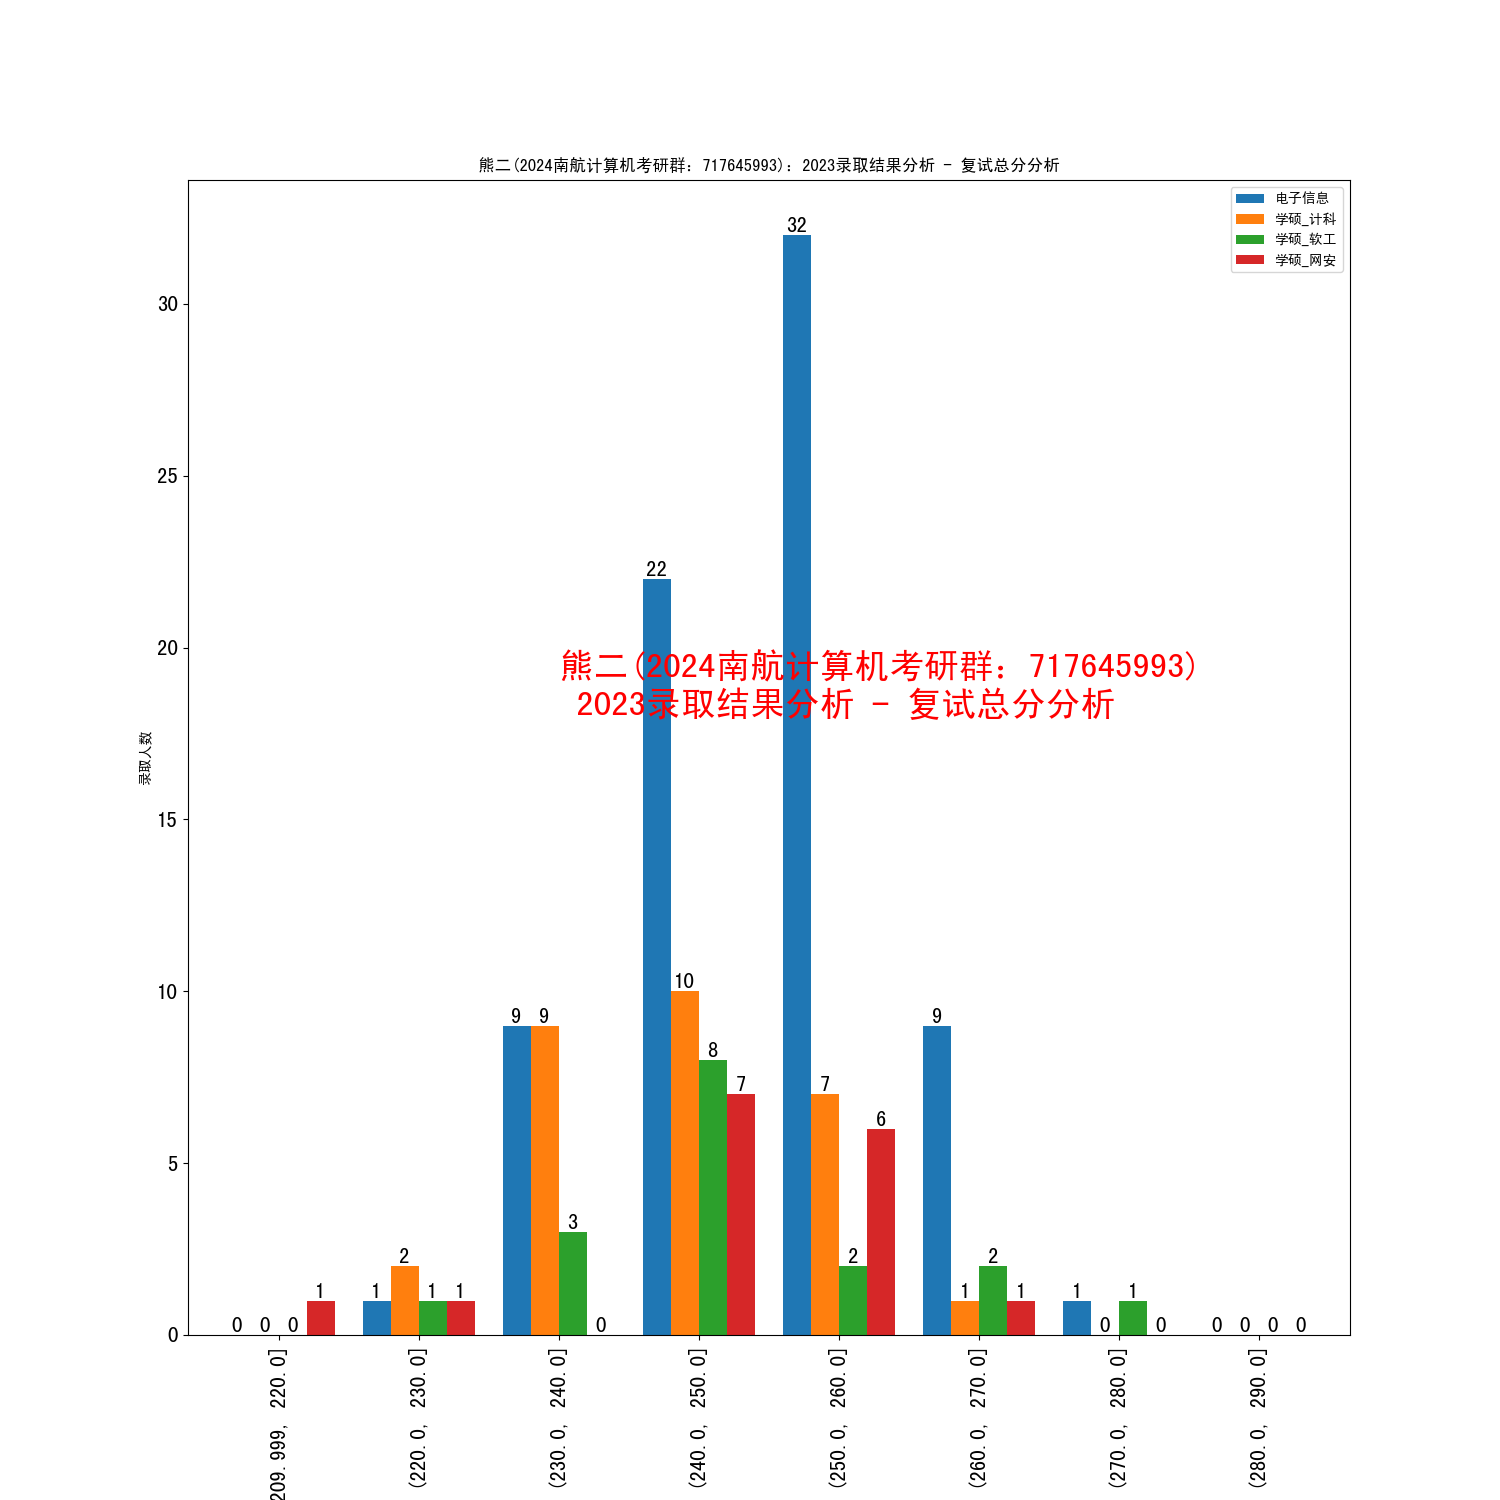
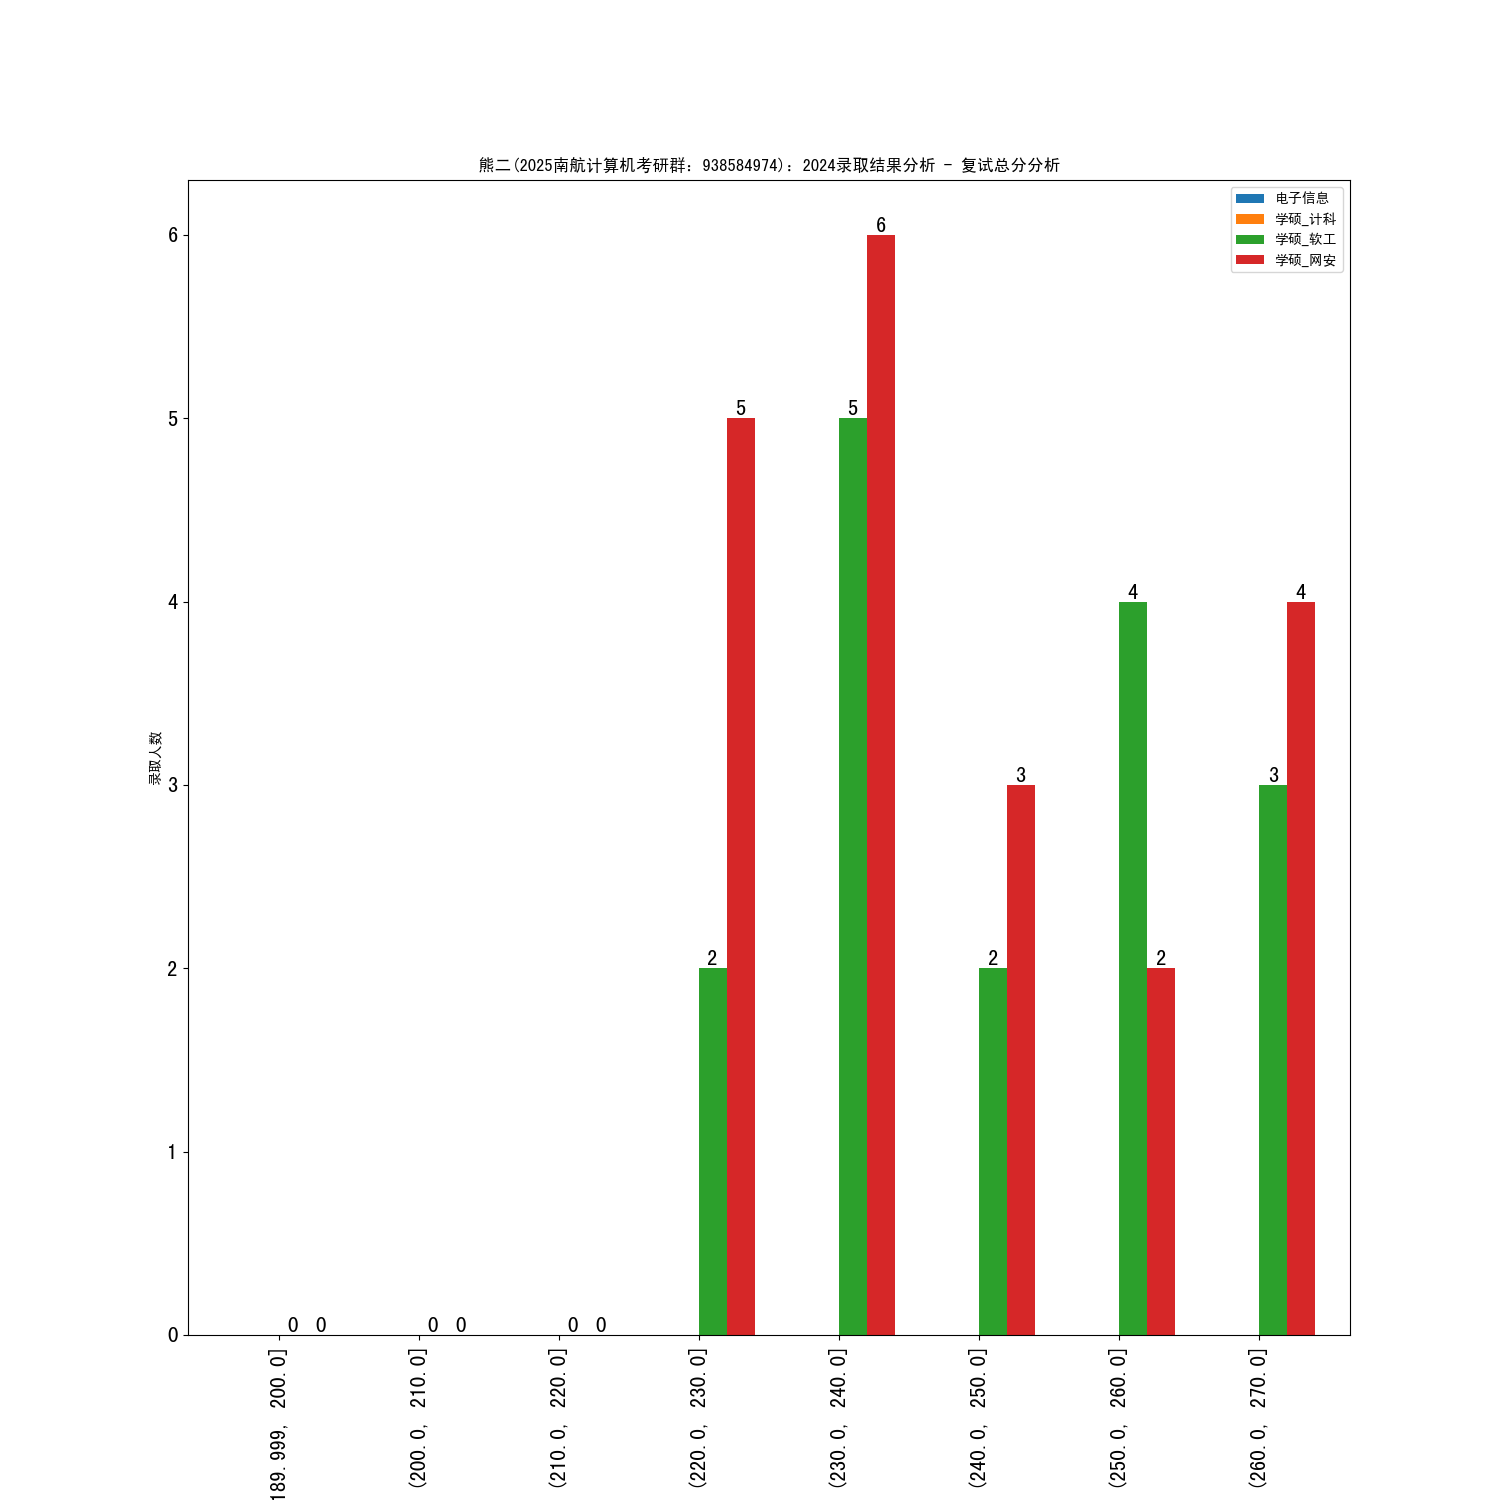
2024

diff --git a/analysis_2024_总分分析.py b/analysis_2024_总分分析.py
@@ -1,0 +1,146 @@
+# -*- coding: utf-8 -*-
+import pandas as pd
+import matplotlib.pyplot as plt
+
+plt.rcParams['font.sans-serif'] = ['SimHei'] #设置字体，设置了字体后，负号会变成乱码
+plt.rcParams['axes.unicode_minus'] = False
+
+x_index_chushi = [0, 1, 2, 3, 4, 5, 6, 7, 8, 9]
+x_index_fushi = [0, 1, 2, 3, 4, 5, 6, 7, 8]
+bins_chushi = [290, 300, 310, 320, 330, 340, 350, 360, 370, 380, 390, 400, 410]
+bins_fushi = [190,200,210, 220, 230, 240, 250, 260, 270]
+title_chushi = "熊二(2025南航计算机考研群：938584974)：2024录取结果分析 - 初试总分分析"
+title_fushi = "熊二(2025南航计算机考研群：938584974)：2024录取结果分析 - 复试总分分析"
+
+
+def load_total_score_dataframe():
+    """加载 2023录取数据-总分.txt"""
+    file = "source_data/2024录取结果.txt"
+    with open(file, 'r', encoding="utf8") as fr:
+        lines = fr.readlines()
+    data = []
+    for line in lines:
+        infos = line.strip().split(" ")
+        data.append({
+            "专业": infos[0],
+            "初试": int(infos[1]),
+            "复试": float(infos[2]),
+            "总分": float(infos[3]),
+        })
+
+    pd_data = pd.DataFrame(data)
+    return pd_data
+
+def analysis_total_score():
+    """已经剔除了退伍大学生计划的数据"""
+    pd_data = load_total_score_dataframe()
+    pd_data_group_describe = pd_data.groupby(["专业"]).describe()
+    pd_data_group_describe.to_csv("2024-初复试总分分析.csv", encoding="utf8")
+    print(pd_data_group_describe)
+
+
+def analysis_chushi():
+    pd_data = load_total_score_dataframe()
+    series_专硕_计算机技术 = pd_data[pd_data.专业 == "专硕-计算机技术"]["初试"]
+    series_专硕_软工 = pd_data[pd_data.专业 == "专硕-软工"]["初试"]
+    series_专硕_网安 = pd_data[pd_data.专业 == "专硕-网安"]["初试"]
+    series_学硕_计科 = pd_data[pd_data.专业 == "学硕-计算机科学"]["初试"]
+    series_学硕_软工 = pd_data[pd_data.专业 == "学硕-软工"]["初试"]
+    series_学硕_网安 = pd_data[pd_data.专业 == "学硕-网安"]["初试"]
+    pd_analysis_专硕_计算机技术 = pd.value_counts(series_专硕_计算机技术, bins=bins_chushi, sort=False)
+    pd_analysis_专硕_软工 = pd.value_counts(series_专硕_软工, bins=bins_chushi, sort=False)
+    pd_analysis_专硕_网安 = pd.value_counts(series_专硕_网安, bins=bins_chushi, sort=False)
+    pd_analysis_学硕_计科 = pd.value_counts(series_学硕_计科, bins=bins_chushi, sort=False)
+    pd_analysis_学硕_软工 = pd.value_counts(series_学硕_软工, bins=bins_chushi, sort=False)
+    pd_analysis_学硕_网安 = pd.value_counts(series_学硕_网安, bins=bins_chushi, sort=False)
+
+    pd_merge = pd.concat([pd_analysis_专硕_计算机技术, pd_analysis_专硕_软工, pd_analysis_专硕_网安, pd_analysis_学硕_计科, pd_analysis_学硕_软工, pd_analysis_学硕_网安], axis=1)
+    pd_merge.columns = ["专硕_计算机技术", "专硕_软工", "专硕_网安",  "学硕_计科", "学硕_软工", "学硕_网安"]
+
+    print(pd_merge)
+    ax = pd_merge.plot(figsize=(15, 15),
+                       kind='bar',
+                       title=title_chushi,
+                       width=0.8,
+                       xlabel="分数区间",
+                       ylabel="录取人数",
+                       fontsize=15)
+
+    for x, y in zip(x_index_chushi, pd_analysis_专硕_计算机技术.tolist()):
+        ax.text(x-0.3, y, y, ha = 'center',va = 'bottom',fontsize=15)
+    for x, y in zip(x_index_chushi, pd_analysis_专硕_软工.tolist()):
+        ax.text(x-0.3, y, y, ha = 'center',va = 'bottom',fontsize=15)
+    for x, y in zip(x_index_chushi, pd_analysis_专硕_网安.tolist()):
+        ax.text(x-0.3, y, y, ha = 'center',va = 'bottom',fontsize=15)
+    for x, y in zip(x_index_chushi, pd_analysis_学硕_计科.tolist()):
+        ax.text(x-0.1, y, y, ha = 'center',va = 'bottom',fontsize=15)
+    for x, y in zip(x_index_chushi, pd_analysis_学硕_软工.tolist()):
+        ax.text(x+0.1, y, y, ha = 'center',va = 'bottom',fontsize=15)
+    for x, y in zip(x_index_chushi, pd_analysis_学硕_网安.tolist()):
+        ax.text(x+0.3, y, y, ha = 'center',va = 'bottom',fontsize=15)
+
+
+    ax.text(2, 18, "熊二(2025南航计算机考研群：938584974) \n 2024录取结果分析 - 初试总分分析", fontsize=25, color="red")
+
+    fig = ax.get_figure()
+    plt.show()
+    fig.savefig('2024初试.png', dip=500)
+
+    # print(pd_data_电子信息_cut.unique())
+    pass
+
+
+
+def analysis_fushi():
+    pd_data = load_total_score_dataframe()
+    series_专硕_计算机技术 = pd_data[pd_data.专业 == "专硕-计算机技术"]["复试"]
+    series_专硕_软工 = pd_data[pd_data.专业 == "专硕-软工"]["复试"]
+    series_专硕_网安 = pd_data[pd_data.专业 == "专硕-网安"]["复试"]
+    series_学硕_计科 = pd_data[pd_data.专业 == "学硕-计算机科学"]["复试"]
+    series_学硕_软工 = pd_data[pd_data.专业 == "学硕-软工"]["复试"]
+    series_学硕_网安 = pd_data[pd_data.专业 == "学硕-网安"]["复试"]
+    pd_analysis_专硕_计算机技术 = pd.value_counts(series_专硕_计算机技术, bins=bins_fushi, sort=False)
+    pd_analysis_专硕_软工 = pd.value_counts(series_专硕_软工, bins=bins_fushi, sort=False)
+    pd_analysis_专硕_网安 = pd.value_counts(series_专硕_网安, bins=bins_fushi, sort=False)
+    pd_analysis_学硕_计科 = pd.value_counts(series_学硕_计科, bins=bins_fushi, sort=False)
+    pd_analysis_学硕_软工 = pd.value_counts(series_学硕_软工, bins=bins_fushi, sort=False)
+    pd_analysis_学硕_网安 = pd.value_counts(series_学硕_网安, bins=bins_fushi, sort=False)
+
+    pd_merge = pd.concat([pd_analysis_专硕_计算机技术,pd_analysis_专硕_软工,pd_analysis_专硕_网安 , pd_analysis_学硕_计科, pd_analysis_学硕_软工, pd_analysis_学硕_网安], axis=1)
+    pd_merge.columns = ["专硕_计算机技术", "专硕_软工", "专硕_网安",  "学硕_计科", "学硕_软工", "学硕_网安"]
+
+    print(pd_merge)
+    ax = pd_merge.plot(figsize=(15, 15),
+                       kind='bar',
+                       title=title_fushi,
+                       width=0.8,
+                       xlabel="分数区间",
+                       ylabel="录取人数",
+                       fontsize=15)
+
+    for x, y in zip(x_index_fushi, pd_analysis_专硕_计算机技术.tolist()):
+        ax.text(x - 0.3, y, y, ha='center', va='bottom', fontsize=15)
+    for x, y in zip(x_index_fushi, pd_analysis_专硕_软工.tolist()):
+        ax.text(x - 0.3, y, y, ha='center', va='bottom', fontsize=15)
+    for x, y in zip(x_index_fushi, pd_analysis_专硕_网安.tolist()):
+        ax.text(x - 0.3, y, y, ha='center', va='bottom', fontsize=15)
+    for x, y in zip(x_index_fushi, pd_analysis_学硕_计科.tolist()):
+        ax.text(x - 0.1, y, y, ha='center', va='bottom', fontsize=15)
+    for x, y in zip(x_index_fushi, pd_analysis_学硕_软工.tolist()):
+        ax.text(x + 0.1, y, y, ha='center', va='bottom', fontsize=15)
+    for x, y in zip(x_index_fushi, pd_analysis_学硕_网安.tolist()):
+        ax.text(x + 0.3, y, y, ha='center', va='bottom', fontsize=15)
+
+    ax.text(2, 18, "熊二(2025南航计算机考研群：938584974) \n 2024录取结果分析 - 复试总分分析", fontsize=25, color="red")
+
+    fig = ax.get_figure()
+    plt.show()
+    fig.savefig('2024复试.png', dip=500)
+    pass
+
+
+if __name__ == "__main__":
+    analysis_total_score()
+    analysis_chushi()
+    analysis_fushi()
+    pass
